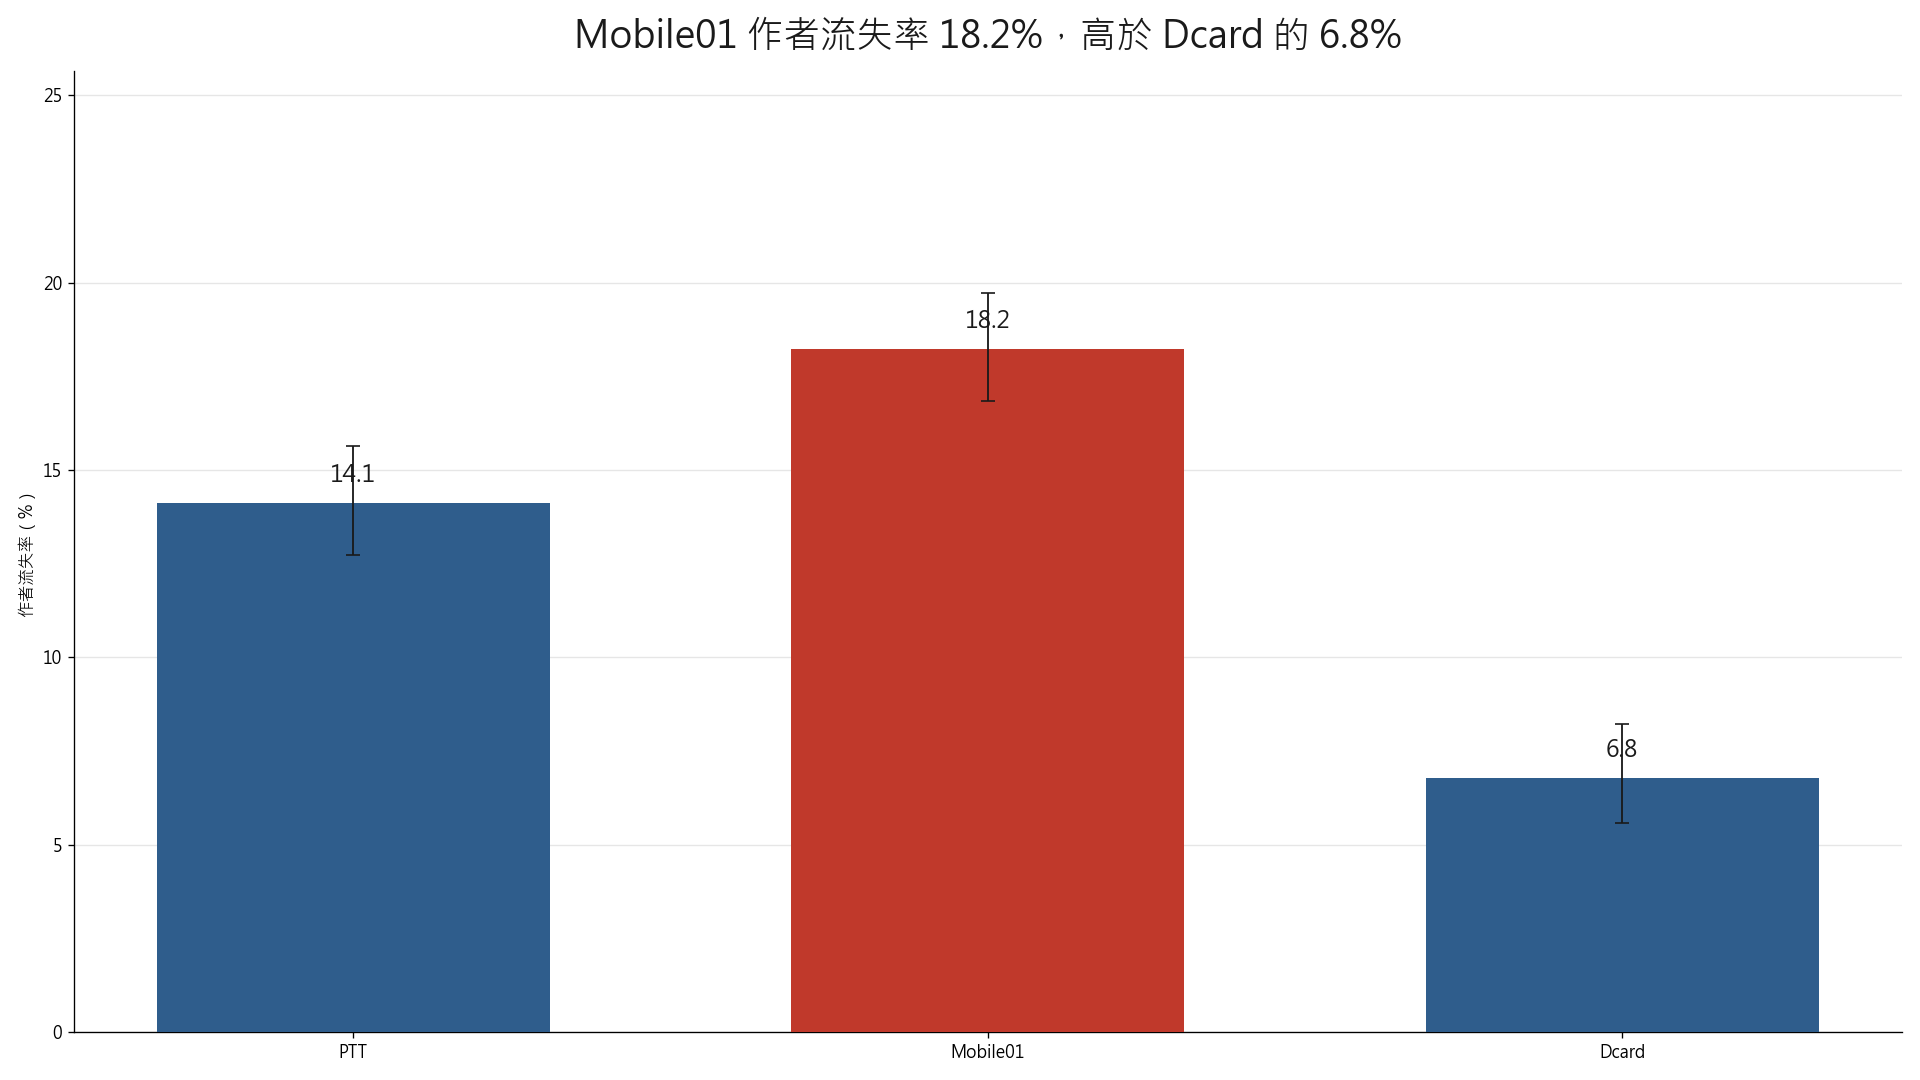
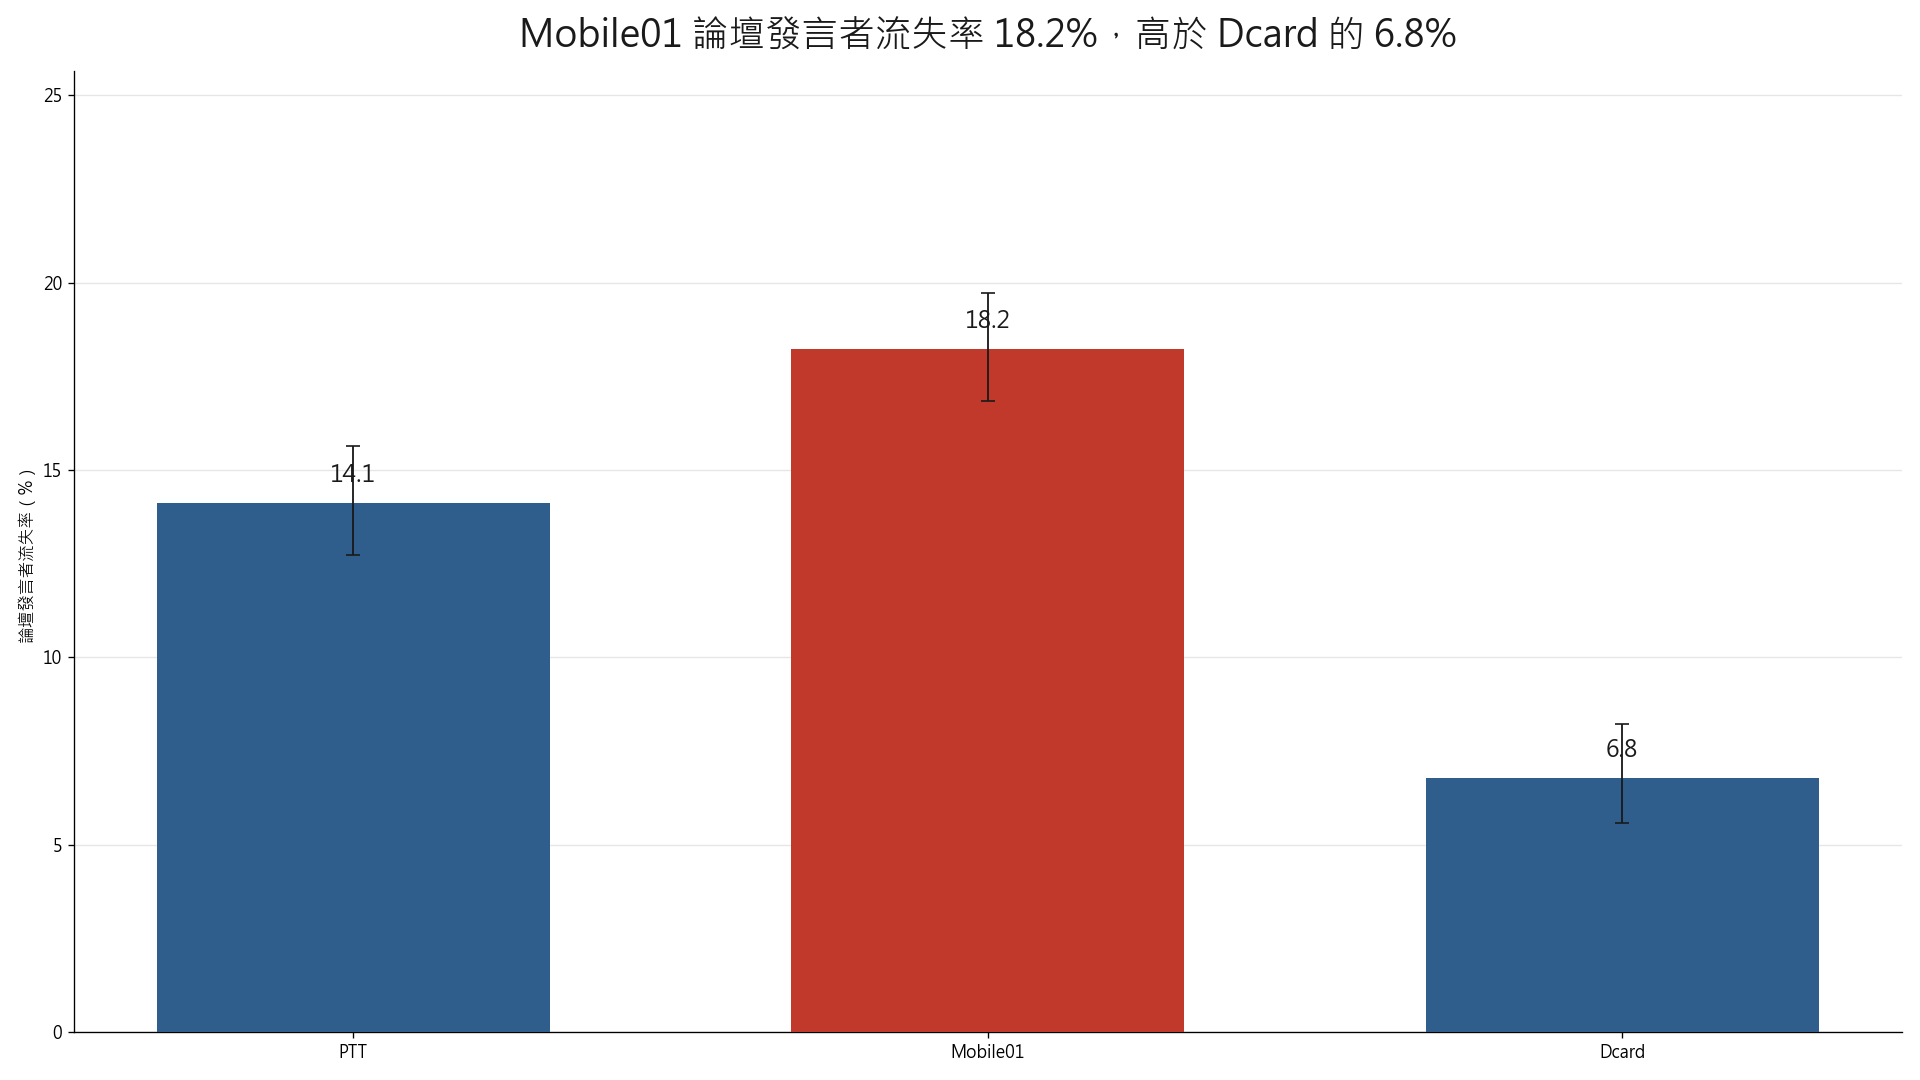
重畫 F2、F8，並補上資料處理流程圖。
F2 軸標題改為論壇發言者流失率；F8 方塊標上 L0–L7 與兩大產出；F9_pipeline 畫爬取到標註的五步。

Changed region(s): [[0.2812, 0.0, 0.75, 0.0611], [0.0, 0.4583, 0.0312, 0.5806]]

diff --git a/pipeline/make_flow_figure.py b/pipeline/make_flow_figure.py
@@ -24,7 +24,20 @@ BAND_TOP, BAND_BOT = "#F7F9FC", "#FBF7F7"
 GREY = "#8A8F98"
 
 
-def box(ax, x, y, w, h, text, fill=PROC, edge=BLUE, size=11, bold_first=True, lw=1.4, ls="-", bold_lines=1):
+def layer_tag(ax, x, y, w, h, label):
+    """短標放右上角；L3·L4·L5 較寬，改放右下角，避免蓋住標題。"""
+    wide = len(label) > 3
+    tw = 14.2 if wide else 5.2
+    th = 3.3
+    bx = x + w - tw - 0.4
+    by = (y + 0.45) if wide else (y + h - th - 0.35)
+    ax.add_patch(FancyBboxPatch((bx, by), tw, th, boxstyle="round,pad=0,rounding_size=0.5",
+                                fc=BLUE, ec=BLUE, lw=0, zorder=5))
+    ax.text(bx + tw / 2, by + th / 2, label, ha="center", va="center", fontsize=8,
+            color="white", fontweight="bold", zorder=6)
+
+
+def box(ax, x, y, w, h, text, fill=PROC, edge=BLUE, size=11, bold_first=True, lw=1.4, ls="-", bold_lines=1, tag=None):
     ax.add_patch(FancyBboxPatch((x, y), w, h, boxstyle="round,pad=0,rounding_size=1.6",
                                 fc=fill, ec=edge, lw=lw, ls=ls, zorder=3))
     lines = text.split("\n")
@@ -49,6 +62,8 @@ def box(ax, x, y, w, h, text, fill=PROC, edge=BLUE, size=11, bold_first=True, lw
     else:
         ax.text(x + w / 2, y + h / 2, text, ha="center", va="center", fontsize=size, color=INK, zorder=4,
                 linespacing=1.35)
+    if tag:
+        layer_tag(ax, x, y, w, h, tag)
 
 
 def arrow(ax, p, q, color=BLUE, lw=1.6, style="-|>", ms=14, path=None, zorder=2):
@@ -71,40 +86,44 @@ def main():
     # 兩個帶狀區
     ax.add_patch(FancyBboxPatch((1, 52), 190, 38, boxstyle="round,pad=0,rounding_size=2", fc=BAND_TOP, ec="#D5DEE8", lw=1, zorder=1))
     ax.add_patch(FancyBboxPatch((1, 0), 190, 49, boxstyle="round,pad=0,rounding_size=2", fc=BAND_BOT, ec="#E4D4D4", lw=1, zorder=1))
-    ax.text(3, 85.5, "洞察迴路｜每日排程：新留言 → 標註與風險 → 日報 → Dashboard", fontsize=13, fontweight="bold", color=BLUE, va="center")
-    ax.text(28, 45.5, "溝通迴路｜事件觸發：CRM 訊號・客訴結案 → Persona（客群輪廓） → RAG 話術 → 人工核准 → 投遞 → KPI 回饋", fontsize=13, fontweight="bold", color=HUMAN_EDGE, va="center")
+    ax.text(3, 87.2, "產出 1：AI 網路輿情洞察系統架構與報告", fontsize=12, fontweight="bold", color=BLUE, va="center")
+    ax.text(3, 83.6, "洞察迴路｜每日排程：新留言 → 標註與風險 → 日報 → Dashboard", fontsize=11, color=BLUE, va="center")
+    ax.text(3, 46.6, "產出 2：針對目標 Persona（客群輪廓）的 AI 溝通計畫與系統流程", fontsize=12, fontweight="bold", color=HUMAN_EDGE, va="center")
+    ax.text(3, 43.2, "溝通迴路｜事件觸發：CRM・客訴結案 → Persona → RAG 話術 → 人工核准 → 投遞 → KPI", fontsize=11, color=HUMAN_EDGE, va="center")
 
     # 上帶：7 個方塊。下帶觸發方塊改三行後，上下方塊一起加高 2，避免字擠出框。
     w, h, yt = 23, 17, 58
     xs = [2, 29.5, 57, 84.5, 112, 139.5, 167]
+    # L2 沒有獨立的每日步驟方塊。L7 文件 §3：資料庫 B 存放去識別留言與標註結果。
     top = [
-        ("論壇爬蟲", "每日抓新留言\n三站公開論壇", PROC, BLUE),
-        ("去重・去識別", "作者雜湊、店名\n人名遮蔽（L1）", PROC, BLUE),
-        ("資料庫 B", "原始輿情\n去識別版，可溯源", DB_FILL, DB_EDGE),
-        ("流失判斷 L3–L5", "r4 逐句判流失、面向\n→ 風險分數 →\nPersona（客群輪廓）", PROC, BLUE),
-        ("洞察報告", "日報・週報・季報\n趨勢分析、200% 預警", PROC, BLUE),
-        ("資料庫 A", "報告池\n日／週／季報、預警紀錄", DB_FILL, DB_EDGE),
-        ("Dashboard 1–3", "1 戰情總覽\n2 報告池・3 原始輿情", PROC, BLUE),
+        ("論壇爬蟲", "每日抓新留言\n三站公開論壇", PROC, BLUE, "L0"),
+        ("去重・去識別", "作者雜湊、店名\n人名遮蔽", PROC, BLUE, "L1"),
+        ("資料庫 B", "去識別留言\n與標註結果", DB_FILL, DB_EDGE, "L2"),
+        ("流失判斷", "r4 判流失、面向、風險分數\n再指派 Persona（客群輪廓）", PROC, BLUE, "L3·L4·L5"),
+        ("洞察報告", "日報・週報・季報\n趨勢分析、200% 預警", PROC, BLUE, None),
+        ("資料庫 A", "報告池\n日／週／季報、預警紀錄", DB_FILL, DB_EDGE, None),
+        ("Dashboard 1–3", "1 戰情總覽\n2 報告池・3 原始輿情", PROC, BLUE, None),
     ]
-    for x, (head, body, f, e) in zip(xs, top):
-        box(ax, x, yt, w, h, head + "\n" + body, fill=f, edge=e, ls="--" if head.startswith("Dashboard") else "-")
+    for x, (head, body, f, e, tg) in zip(xs, top):
+        box(ax, x, yt, w, h, head + "\n" + body, fill=f, edge=e, ls="--" if head.startswith("Dashboard") else "-", tag=tg)
     for a, b in zip(xs[:-1], xs[1:]):
         arrow(ax, (a + w, yt + h / 2), (b, yt + h / 2))
 
     # 下帶：6 個方塊 + 2 個資料庫
     yb = 22
+    # 觸發對 L4、Persona 對 L5、RAG 對 L6、投遞與 KPI 對 L7（L7運作流程_2026-09-30.md）。人工審核沒有層號。
     bot = [
-        ("觸發事件", "CRM 命中 R1–R8（含 R5 待料）\n客訴結案 → 第 7 天回訪\n或風險分數升為高", PROC, BLUE),
-        ("判定 Persona\n（客群輪廓）", "四類之一\n未分類 → 觀察名單", PROC, BLUE),
-        ("RAG 生成話術", "檢索條款 → 生成\n→ 第二輪事實查核", PROC, BLUE),
-        ("人工審核", "Dashboard 5 審核佇列\n核准或改寫才投遞", HUMAN_FILL, HUMAN_EDGE),
-        ("投遞", "LINE・App\nEmail・專員電話", PROC, BLUE),
-        ("KPI 回饋", "點擊・預約・回廠\n寫回 CRM", PROC, BLUE),
+        ("觸發事件", "CRM 命中 R1–R8（含 R5 待料）\n客訴結案 → 第 7 天回訪\n或風險分數升為高", PROC, BLUE, "L4"),
+        ("判定 Persona\n（客群輪廓）", "四類之一\n未分類 → 觀察名單", PROC, BLUE, "L5"),
+        ("RAG 生成話術", "檢索條款 → 生成\n→ 第二輪事實查核", PROC, BLUE, "L6"),
+        ("人工審核", "Dashboard 5 審核佇列\n核准或改寫才投遞", HUMAN_FILL, HUMAN_EDGE, None),
+        ("投遞", "LINE・App\nEmail・專員電話", PROC, BLUE, "L7"),
+        ("KPI 回饋", "點擊・預約・回廠\n寫回 CRM", PROC, BLUE, "L7"),
     ]
-    for x, (head, body, f, e) in zip(xs[:6], bot):
+    for x, (head, body, f, e, tg) in zip(xs[:6], bot):
         box(ax, x, yb, w, h, head + "\n" + body, fill=f, edge=e, lw=2.2 if head == "人工審核" else 1.4,
             size=10 if head == "觸發事件" else 11,
-            bold_lines=2 if head.startswith("判定 Persona") else 1)
+            bold_lines=2 if head.startswith("判定 Persona") else 1, tag=tg)
     for a, b in zip(xs[:5], xs[1:6]):
         arrow(ax, (a + w, yb + h / 2), (b, yb + h / 2))
     # 回饋箭在 x=13.5 垂直上升，小字放箭頭右側、觸發方塊正下方。12pt 單行會伸進第二格下方，改兩行。

diff --git a/pipeline/make_figures.py b/pipeline/make_figures.py
@@ -1,6 +1,7 @@
 """T10 圖表初稿。中文用 Microsoft JhengHei，白底，1600×900 以上。
 
   python pipeline/make_figures.py
+  另：f_pipeline() 寫 reports/figures/F9_pipeline.png（不在 main 裡，避免連動重畫）。
 
 F1、F2 的分子分母沿用 reports/T7_stats_tests.md，誤差線為依該表重算的 Wilson 95% CI。
 F6 用 r4 ep2 的 600 句測試集（jev_lora_r4_ep2_pilot.jsonl）。
@@ -163,10 +164,10 @@ def f2_sources():
     hi = rows[peak]
     dcard = next(r for r in rows if r[0] == "Dcard")
     ax.set_title(
-        f"{hi[0]} 作者流失率 {hi[1] * 100:.1f}%，高於 Dcard 的 {dcard[1] * 100:.1f}%",
+        f"{hi[0]} 論壇發言者流失率 {hi[1] * 100:.1f}%，高於 Dcard 的 {dcard[1] * 100:.1f}%",
         fontsize=22, color=INK, pad=14,
     )
-    ax.set_ylabel("作者流失率（%）")
+    ax.set_ylabel("論壇發言者流失率（%）")
     ax.set_ylim(0, max(r[3] for r in rows) * 100 * 1.3)
     for i, r in enumerate(rows):
         ax.text(i, r[1] * 100 + 0.4, f"{r[1] * 100:.1f}", ha="center", va="bottom", fontsize=14, color=INK)
@@ -384,6 +385,44 @@ def f6_calibration():
     ax.set_ylim(0, 100)
     ax.grid(axis="both", color=GRID, linewidth=0.8)
     finish(fig, FIG / "F6.png")
+
+
+def f_pipeline():
+    """資料處理鏈。數字轉抄簡報 P5 與 T7 品質報告，不重算。不進 main()，避免連動重畫 F1–F7。"""
+    from matplotlib.patches import FancyBboxPatch, FancyArrowPatch
+
+    fig, ax = plt.subplots(figsize=(16, 4.4), dpi=120)
+    fig.patch.set_facecolor("white")
+    ax.set_xlim(0, 160)
+    ax.set_ylim(0, 44)
+    ax.axis("off")
+    ax.set_position([0, 0, 1, 1])
+    nodes = [
+        ("爬取留言", "22.5 萬則"),
+        ("切句・去重・去識別", "23.6 萬句"),
+        ("售後關鍵詞篩選", "21,183 句"),
+        ("五指標品質檢查", "超過 78 字只標記"),
+        ("進入標註", "供模型與報告"),
+    ]
+    w, h, y = 26, 22, 11
+    gap = 6.2
+    xs = [3 + i * (w + gap) for i in range(5)]
+    for i, ((title, sub), x) in enumerate(zip(nodes, xs)):
+        ax.add_patch(FancyBboxPatch((x, y), w, h, boxstyle="round,pad=0,rounding_size=1.2",
+                                    fc="#EAF1F8", ec=BLUE, lw=1.6))
+        ax.text(x + w / 2, y + 14.2, str(i + 1), ha="center", va="center", fontsize=16,
+                color=BLUE, fontweight="bold")
+        ax.text(x + w / 2, y + 9.2, title, ha="center", va="center", fontsize=15,
+                color=INK, fontweight="bold")
+        ax.text(x + w / 2, y + 4.6, sub, ha="center", va="center", fontsize=14, color="#3C4653")
+        if i < 4:
+            ax.add_patch(FancyArrowPatch((x + w + 0.3, y + h / 2), (x + w + gap - 0.3, y + h / 2),
+                                         arrowstyle="-|>", mutation_scale=16, color=BLUE, lw=1.6))
+    FIG.mkdir(parents=True, exist_ok=True)
+    path = FIG / "F9_pipeline.png"
+    fig.savefig(path, dpi=120, facecolor="white")
+    plt.close(fig)
+    print(f"F9_pipeline.png {png_size(path)[0]}×{png_size(path)[1]}")
 
 
 def main():
